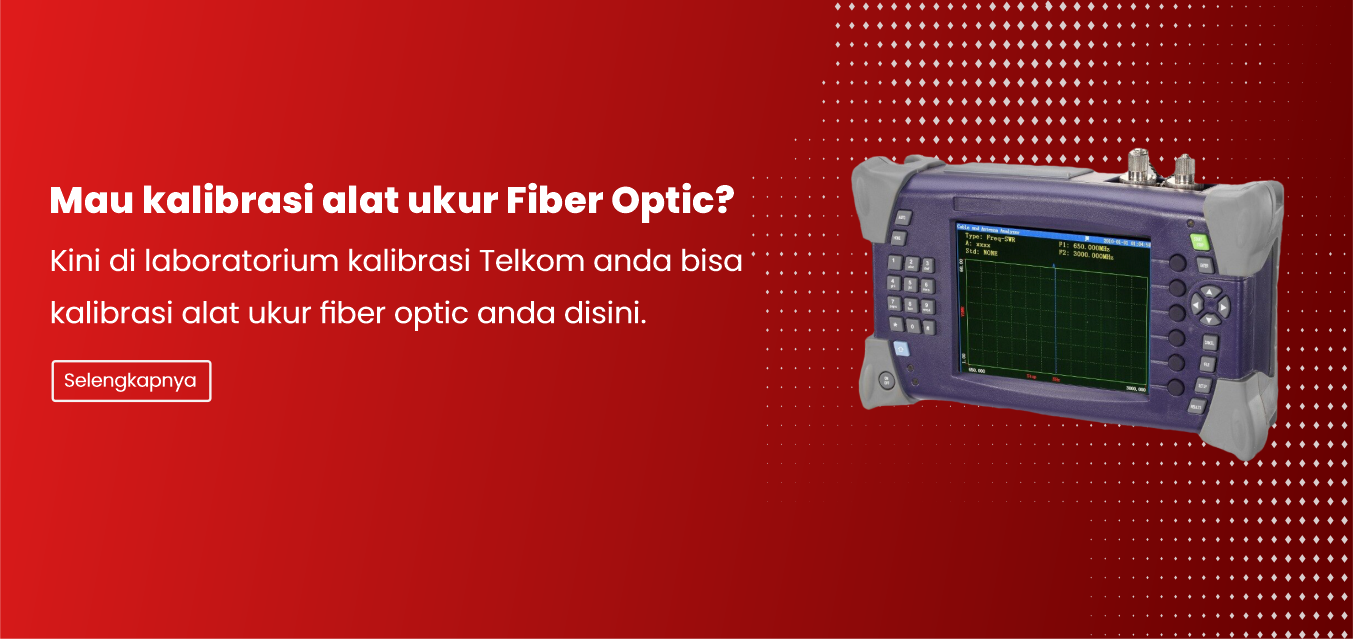
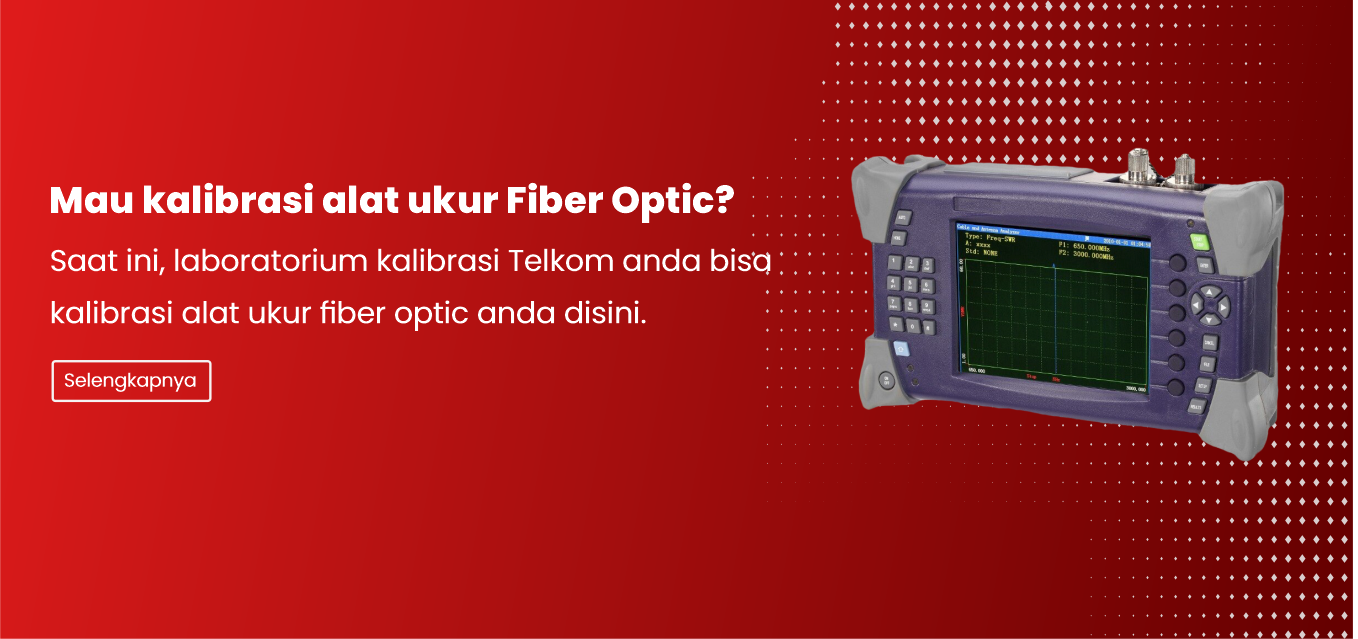
update language

Changed region(s): [[0.0309, 0.3865, 0.5876, 0.446]]

diff --git a/resources/views/slide.blade.php b/resources/views/slide.blade.php
@@ -4,16 +4,11 @@
                 <ul>
                     <!-- SLIDE  -->
                     <li data-index="rs-7" data-transition="slotzoom-horizontal" data-slotamount="1" data-easein="default" data-easeout="default" data-masterspeed="1000" data-rotate="0" data-saveperformance="off" data-title="Slide" data-param1="" data-param2="" data-param3="" data-param4="" data-param5="" data-param6="" data-param7="" data-param8="" data-param9="" data-param10="" data-description="">
-
-                        <!-- MAIN IMAGE -->
-
-                        <img src="images/slides/slide1.png"  alt=""  data-bgposition="center center" data-bgfit="cover" data-bgrepeat="no-repeat" class="rev-slidebg" data-no-retina>
-                      
-                        <!-- LAYERS -->
-
-                        
-                        
+                        <img src="{{__('lang.slide')}}"  alt=""  data-bgposition="center center" data-bgfit="cover" data-bgrepeat="no-repeat" class="rev-slidebg" data-no-retina>
                     </li>
+                    <!-- <li data-index="rs-7" data-transition="slotzoom-horizontal" data-slotamount="1" data-easein="default" data-easeout="default" data-masterspeed="1000" data-rotate="0" data-saveperformance="off" data-title="Slide" data-param1="" data-param2="" data-param3="" data-param4="" data-param5="" data-param6="" data-param7="" data-param8="" data-param9="" data-param10="" data-description="">
+                        <img src="images/slides/slide2.png"  alt=""  data-bgposition="center center" data-bgfit="cover" data-bgrepeat="no-repeat" class="rev-slidebg" data-no-retina>
+                    </li> -->
 
                    
 

diff --git a/resources/views/RL/layanan.blade.php b/resources/views/RL/layanan.blade.php
@@ -108,9 +108,9 @@
                     <div class="col-lg-4 widget-area sidebar-right">
                         <aside class="widget widget-download">
                             <ul class="download">
-                                <li><i class="fal fa-file-pdf"></i><div><h4>Certificate ISO 17025</h4><a href="https://drive.google.com/open?id=1CrUA1ueVSKHXO1jjOa3Ptrt1hv1ZHA-M">Download</a></div></li>
-                                <li><i class="fal fa-file-pdf"></i><div><h4>Ruang Lingkup</h4><a href="https://drive.google.com/file/d/1fjMDacYMckmOZ65hIuBn5C94WH4SmIbB/view?usp=sharing">Download</a></div></li>
-                                <li><i class="fal fa-file-pdf"></i><div><h4>SOP Lab Kalibrasi</h4><a href="#">Download</a></div></li>
+                                <li><i class="fal fa-file-pdf"></i><div><a href="https://drive.google.com/open?id=1CrUA1ueVSKHXO1jjOa3Ptrt1hv1ZHA-M"><h4>Certificate ISO 17025</h4></a></div></li>
+                                <li><i class="fal fa-file-pdf"></i><div><a href="https://drive.google.com/file/d/1fjMDacYMckmOZ65hIuBn5C94WH4SmIbB/view?usp=sharing"><h4>Ruang Lingkup</h4></a></div></li>
+                                <li><i class="fal fa-file-pdf"></i><div><a href="#"><h4>SOP Lab Kalibrasi</h4></a></div></li>
                             </ul>
                         </aside>
                         <aside class="widget widget-contact p-0">

diff --git a/resources/views/sertifikat_iso.blade.php b/resources/views/sertifikat_iso.blade.php
@@ -6,13 +6,13 @@
                     <div class="row align-items-center text-center">
                         <div class="col-lg-12">
                             <div class="">
-                                <h4 class="title">Sertifikat Lab Kalibrasi Telkom</h4>
+                                <h4 class="title">{{__('lang.iso')}}</h4>
                             </div>
                             <div class="breadcrumb-wrapper">
                                 <span>
-                                    <a title="Homepage" href="/">Beranda</a>
+                                    <a title="Homepage" href="/">{{__('lang.Beranda')}}</a>
                                 </span>
-                                <span>Sertifikat ISO:17025:2017</span>
+                                <span>{{__('lang.Sertifikat')}}</span>
                             </div>
                         </div>
                     </div>

diff --git a/resources/views/struktur-organisasi.blade.php b/resources/views/struktur-organisasi.blade.php
@@ -6,13 +6,13 @@
                     <div class="row align-items-center text-center">
                         <div class="col-lg-12">
                             <div class="">
-                                <h4 class="title">Struktur Organisasi Lab Kalibrasi</h4>
+                                <h4 class="title">{{__('lang.organisasi')}}</h4>
                             </div>
                             <div class="breadcrumb-wrapper">
                                 <span>
-                                    <a href="/">Beranda</a>
+                                    <a href="/">{{__('lang.Beranda')}}</a>
                                 </span>
-                                <span>Laboratorium Kalibrasi Telkom</span>
+                                <span>{{__('lang.Struktur')}}</span>
                             </div>
                         </div>
                     </div>

diff --git a/resources/lang/en/lang.php b/resources/lang/en/lang.php
@@ -5,6 +5,7 @@ return [
     'Profil' => 'Profile Lab',
     'Sertifikat' => 'Certificate ISO 17025:2017',
     'Struktur' => 'Organizational structure',
+    'organisasi' => 'Organization Structure of Telkom Calibration Lab',
     'Layanan' => 'Our Service',
     'Kalibrasi' => 'Calibration',
     'Konsultasi' => 'Consultation',
@@ -58,4 +59,5 @@ return [
     'blog' => 'Blog & Article',
     'sapawa' => 'Welcome to the Telkom Calibration Lab, how can we help you 😀?',
     'waatas' => 'Contact us via Whatsapp!',
+    'slide' => 'images/slides/slide2.png',
 ];

diff --git a/resources/lang/id/lang.php b/resources/lang/id/lang.php
@@ -5,6 +5,7 @@ return [
     'Profil' => 'Profil Lab',
     'Sertifikat' => 'Sertifikat ISO 17025:2017',
     'Struktur' => 'Struktur Organisasi',
+    'organisasi' => 'Struktur Organisasi Lab Kalibrasi Telkom',
     'Layanan' => 'Layanan',
     'Kalibrasi' => 'Kalibrasi',
     'Konsultasi' => 'Konsultasi',
@@ -58,4 +59,5 @@ return [
     'blog' => 'Blog & Artikel',
     'sapawa' => 'Selamat datang di Lab Kalibrasi Telkom, ada yang bisa kami bantu 😀?',
     'waatas' => 'Hubungi kami lewat Whatsapp!',
+    'slide' => 'images/slides/slide1.png',
 ];
